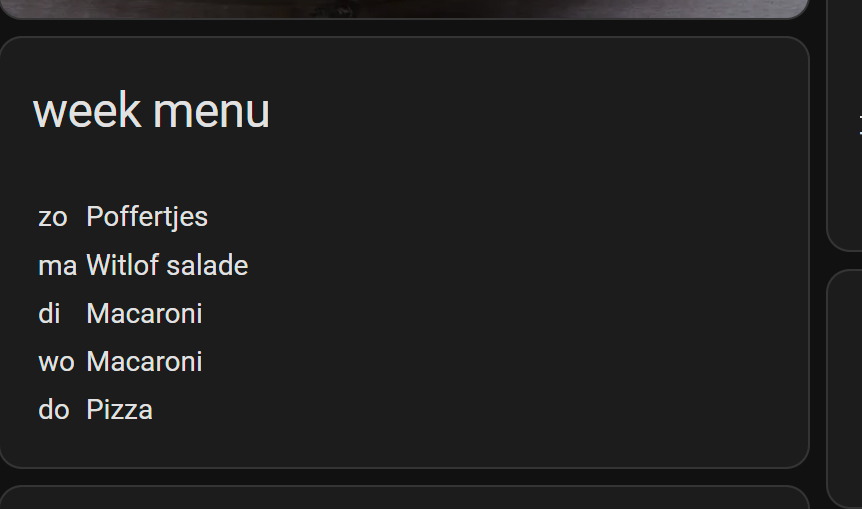
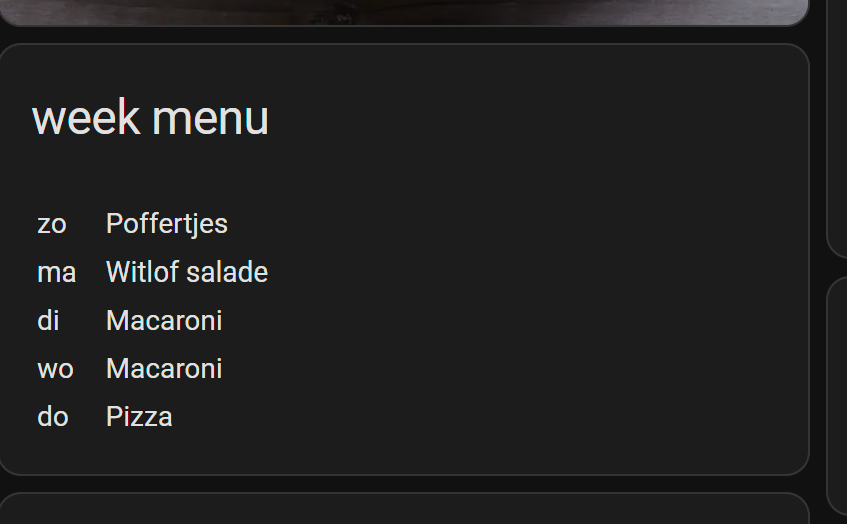
Mealie 1.3 integration

diff --git a/homeassistant/homeassistant_dashboard_mealie.md b/homeassistant/homeassistant_dashboard_mealie.md
@@ -5,7 +5,7 @@ tags: Home Assistant, dashboard, lovelace, Mealie, recipe manager, meal, planner
 ---
 # Home Assistant dashboard: Mealie Recipe Manager
 
-<a href="index"><img src="images/home_assistant_logo.png" style="float: right;margin-right:5px" alt="Home Assistant logo" height="100px"></a>
+<a href="index"><img src="images/home_assistant_logo.png" style="float: right;margin-left:10px" alt="Home Assistant logo" height="100px"></a>
 
 Here you find how I seamlessly integrate the recipe manager **Mealie** into my HA dashboard to organize my **recipes** and show a meal **day-** and **weekplanning** for the upcoming days.
 
@@ -336,15 +336,20 @@ The date will be formatted to the short notation for the day of the week.
 # Dashboard card code
 - type: markdown
     content: |-
-      <table> {% for i in range(7) %}
-       {% set index = i|string %}
-       {% set meal_date = states("sensor.mealie_day" + index + "_date") %}
-       {% set meal_name = states("sensor.mealie_day" + index + "_name") %}
-       {% if meal_date != 'unknown' %} 
-       <tr>
-       <td>{{ ['ma','di','wo','do','vr','za','zo'][strptime(meal_date, "%Y-%m-%d").weekday()] }}</td> 
-       <td>{{ meal_name }} </td>
-       {% endif %}
+      <table> 
+       {% for i in range(7) %}
+           {% set index = i|string %}
+           {% set meal_date = states("sensor.mealie_day" + index + "_date") %}
+           {% set meal_name = states("sensor.mealie_day" + index + "_name") %}
+           {% if meal_date != 'unknown' %} 
+           <tr>
+               <td>
+                {{ ['ma','di','wo','do','vr','za','zo'][strptime(meal_date, "%Y-%m-%d").weekday()] }}
+               </td> 
+               <td>&nbsp; &nbsp;</td>
+               <td>{{ meal_name }}</td>
+           </tr>
+           {% endif %}
        {% endfor %}
       </table>
     title: week menu

diff --git a/homeassistant/index.md b/homeassistant/index.md
@@ -5,7 +5,6 @@ tags: Home Assistant, lovelace, dashboard, weather, dutch, examples
 ---
 # Home Assistant dashboards
 
-0
 ![Banner](images/ha_banner.png)
 
 <img style="float: right;height:200px" src="images/home_assistant_logo.png" alt="Home Assistant logo" >
